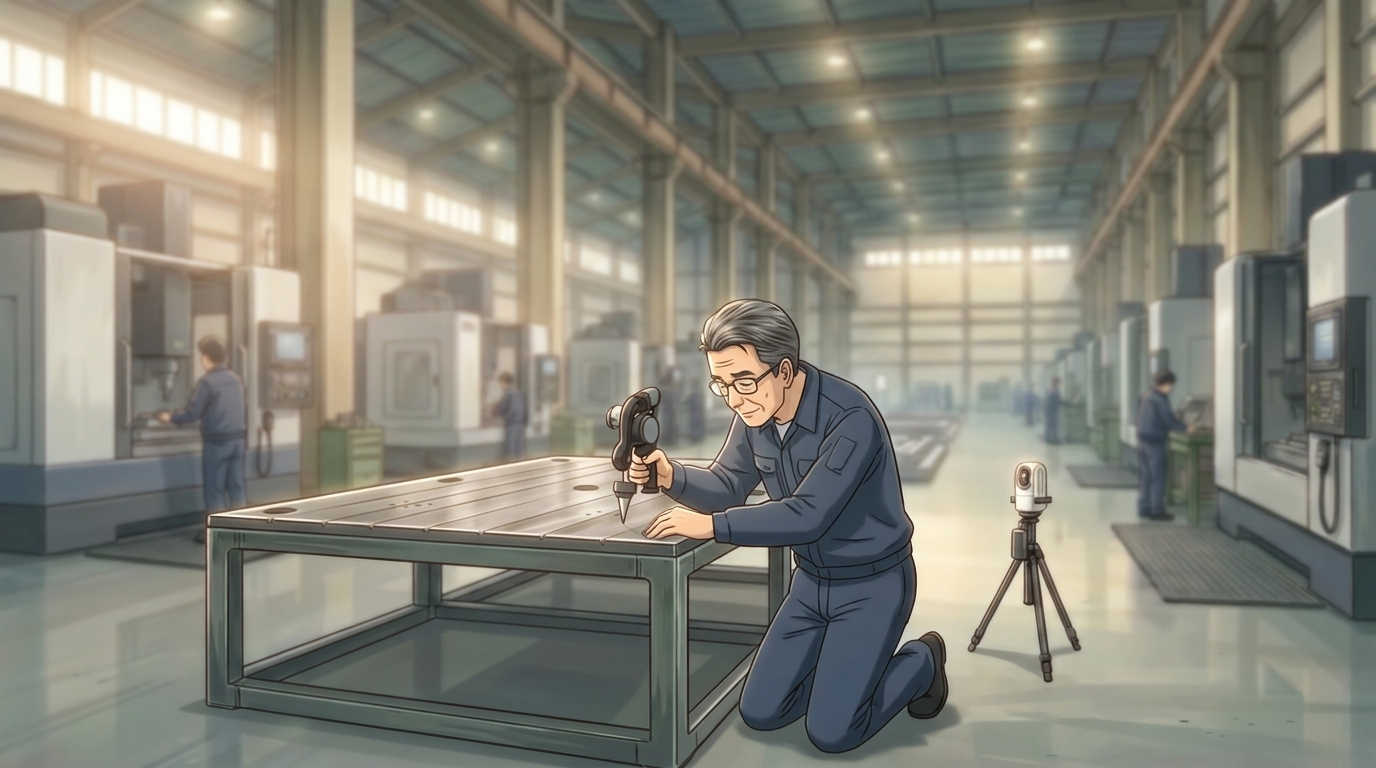
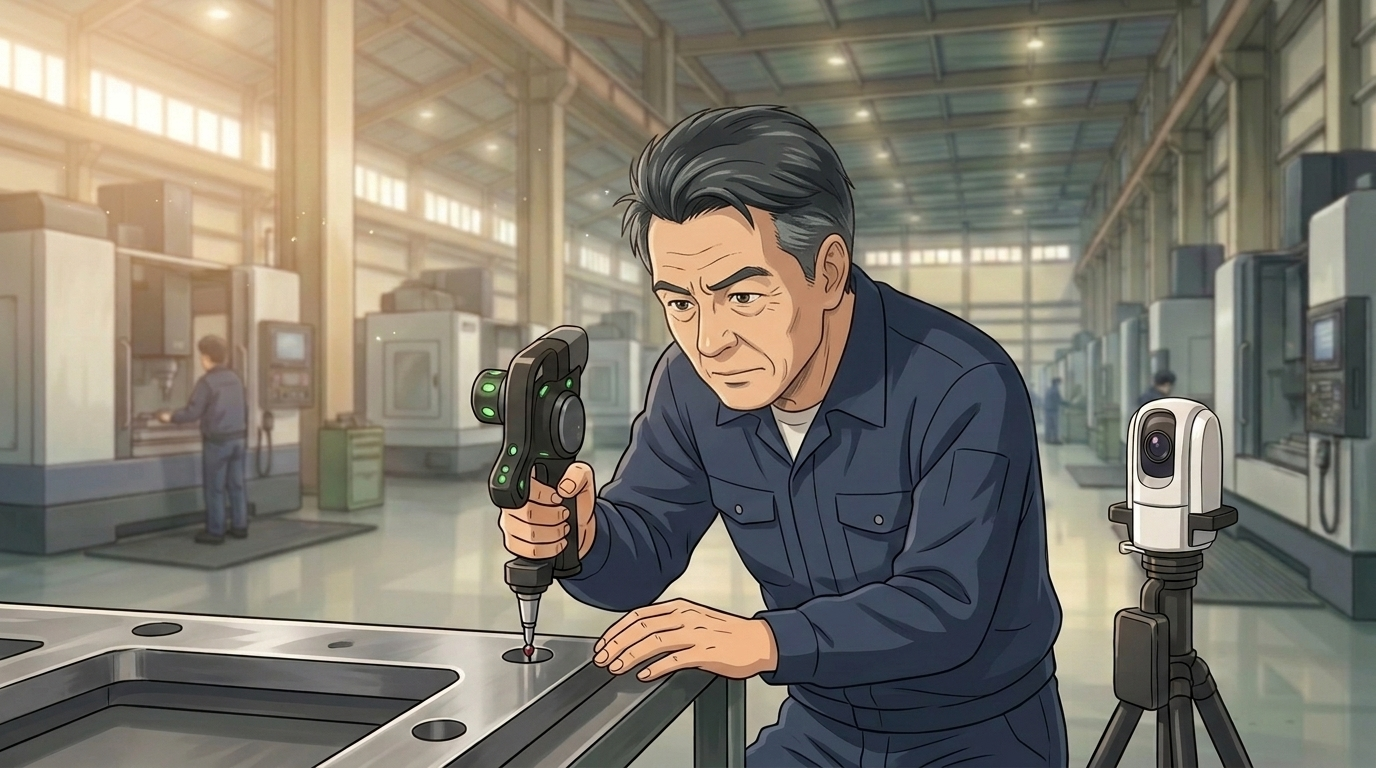
カット24：品質課長が実際にプローブで測っている絵に
Claude-Session: https://claude.ai/code/session_01VVEZCUrcZYnzyQqFn6XvYr

diff --git a/mv/s26_frames.py b/mv/s26_frames.py
@@ -19,7 +19,7 @@ J = {
  14: (["des_smile"], "in the office, the smiling designer with glasses designs a glass cutting machine in CAD on two monitors (simple line drawings on screen, no text); he looks at the screen, not at the camera, and uses the mouse."),
  21: (["assembler"], "the bearded master assembler stands on the floor and tightens an M20 nut with a normal-sized wrench (about 30 cm long, one hand) at a joint low on a column of the white glass cutting machine under assembly; the machine keeps exactly the same shape as in image 2."),
  23: (["concept", "des_smile"], "a client in a dark suit explains his request at a table; the cheerful, slightly plump elderly concept designer from the first character sheet (seventies, NO glasses, clean-shaven, round friendly face) sketches ideas on paper, and the slim smiling designer with glasses from the second character sheet listens beside him. Exactly these two employees and the client."),
- 24: (["qc_chief"], "the quality-control chief measures the machined top plate of the steel frame product with a measuring probe on a small stand, focused."),
+ 24: (["qc_chief", "cmm_device"], "closer view: the quality-control chief is actively measuring - he holds the black handheld touch probe with green lights (exactly like the left device in the last reference image) firmly in his hand and presses its small red-tipped stylus against the edge of a hole in the machined top plate of the steel frame product, his eyes on the contact point, concentrating. Behind him the white tracker camera on its black tripod (like the right device in the last reference image) faces the probe. He is clearly working, not posing."),
  39: (["machinist"], "the senior machinist with glasses operates the control panel of a modern machine, focused."),
  43: (["adv_big", "new_shy"], "the strong elderly advisor (short white hair) and the shy young newcomer look at the finished steel frame product together; the advisor points at the machined top plate and the newcomer smiles proudly."),
 }
